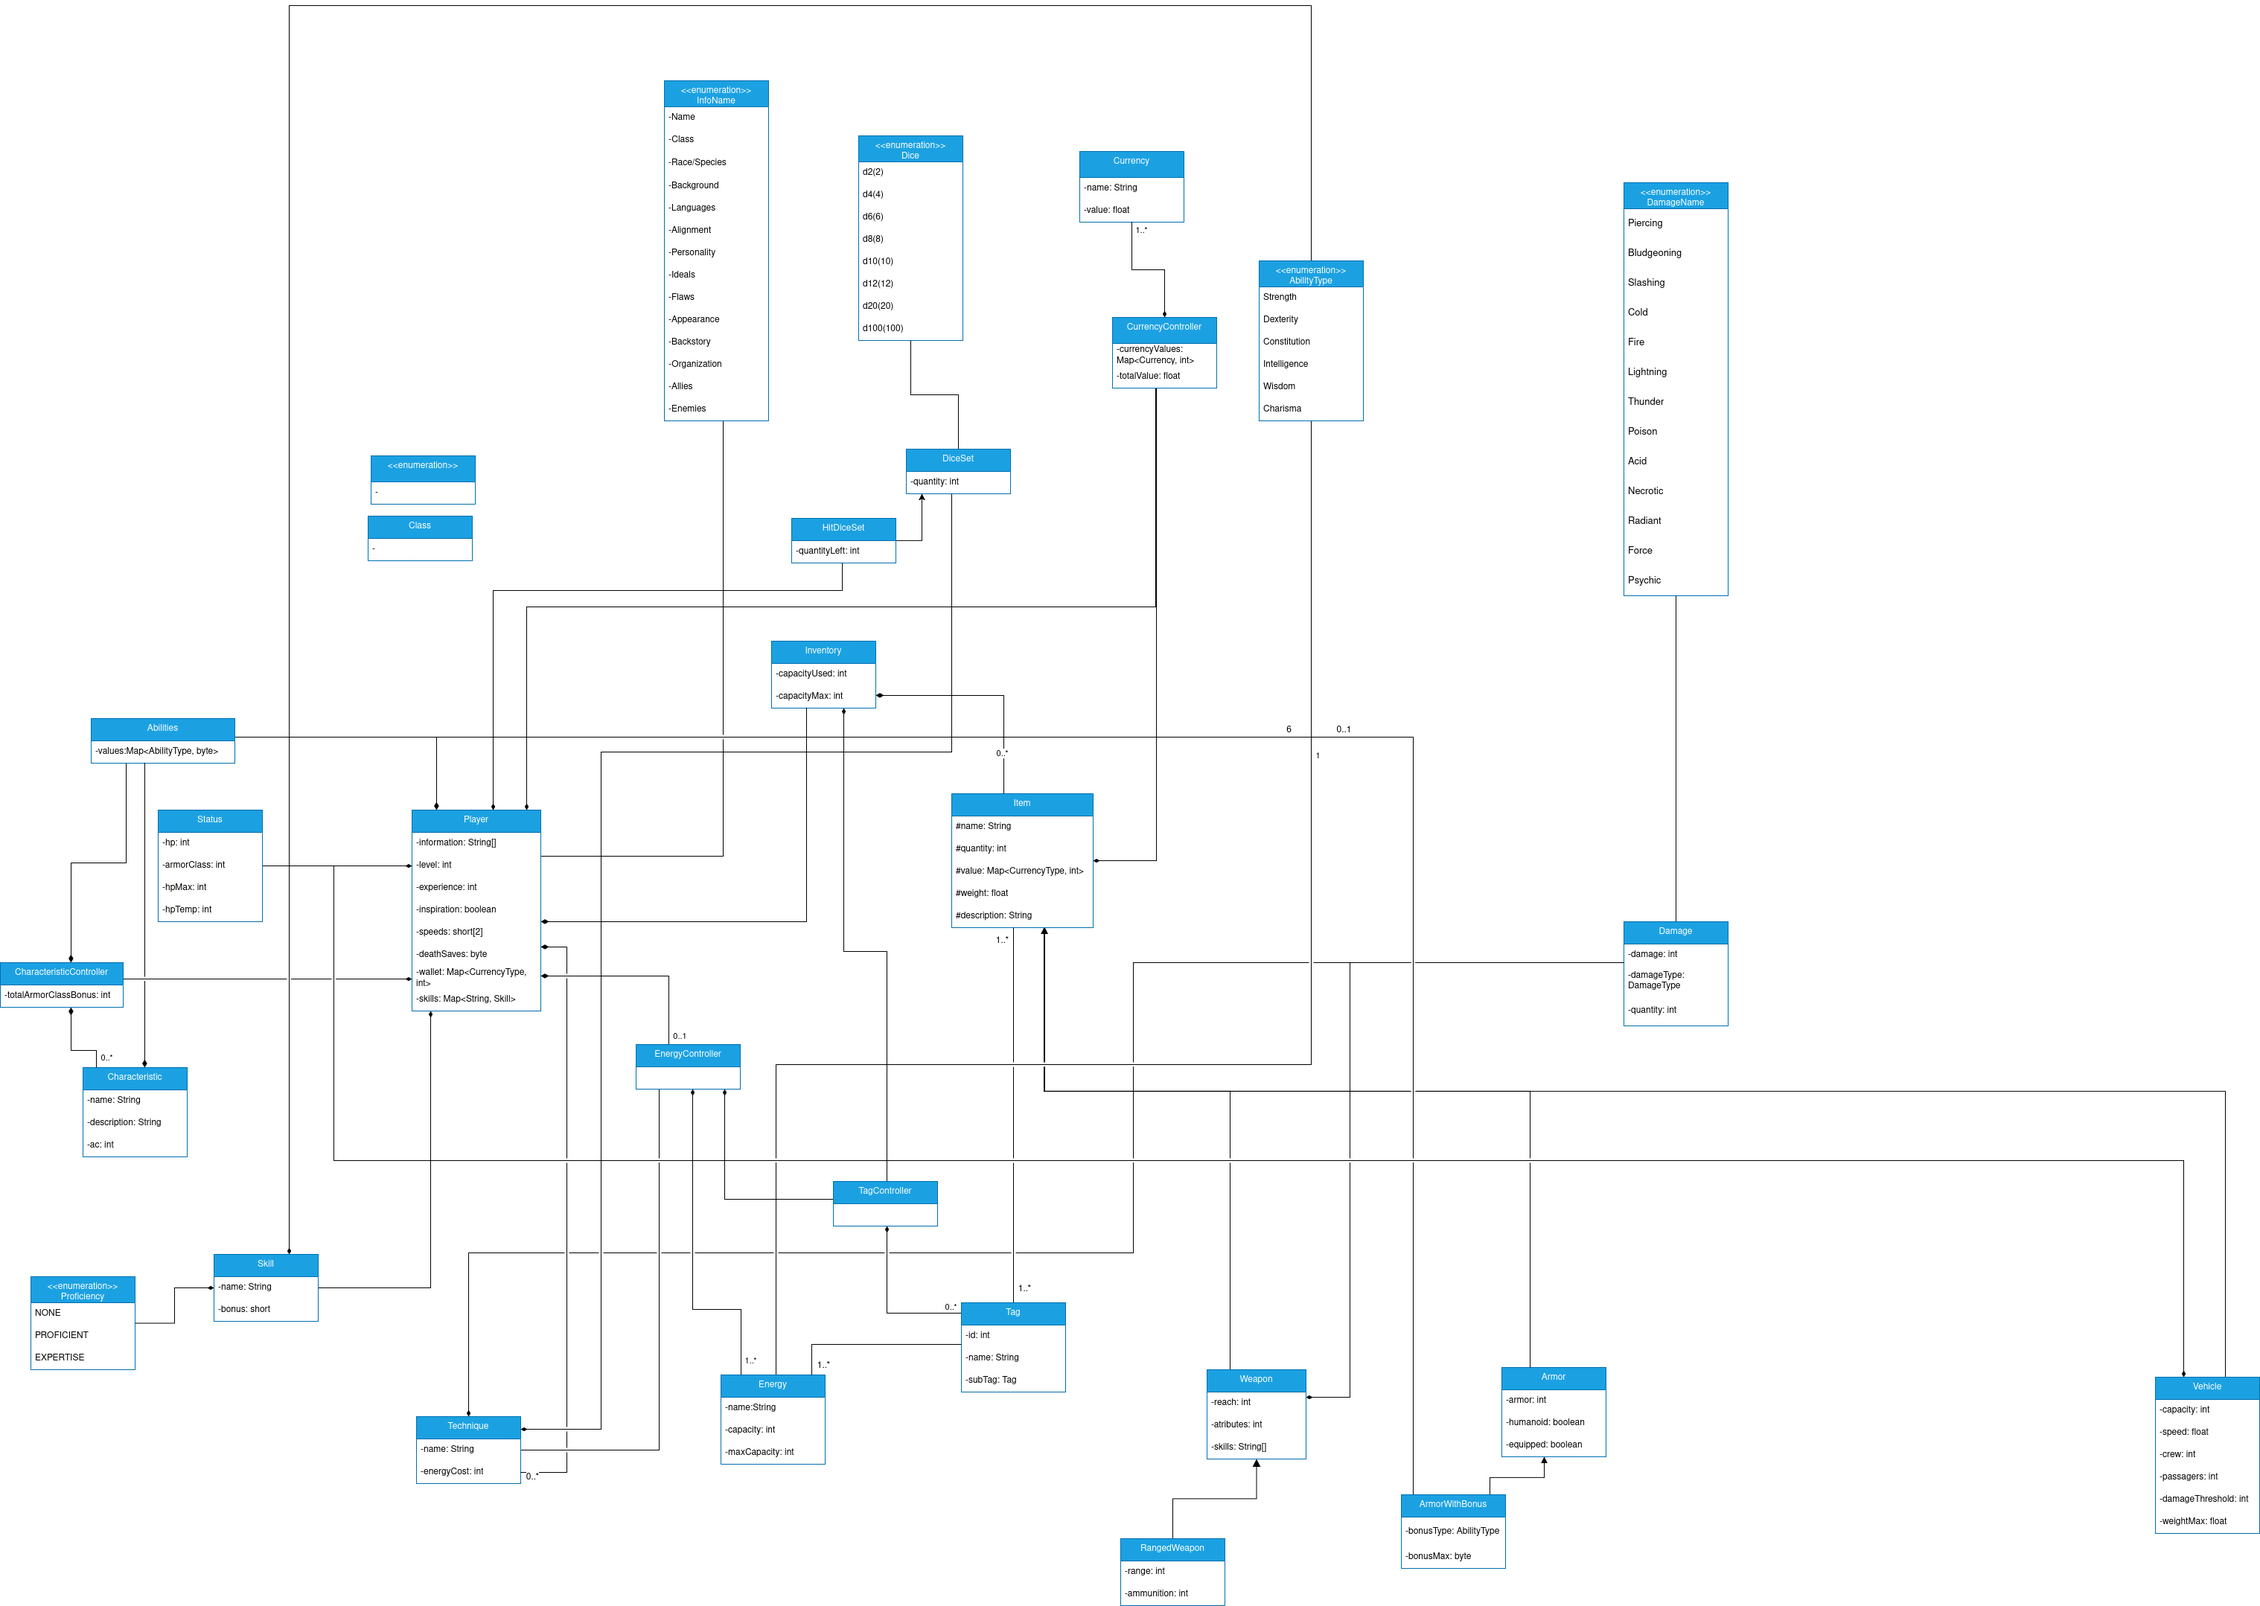
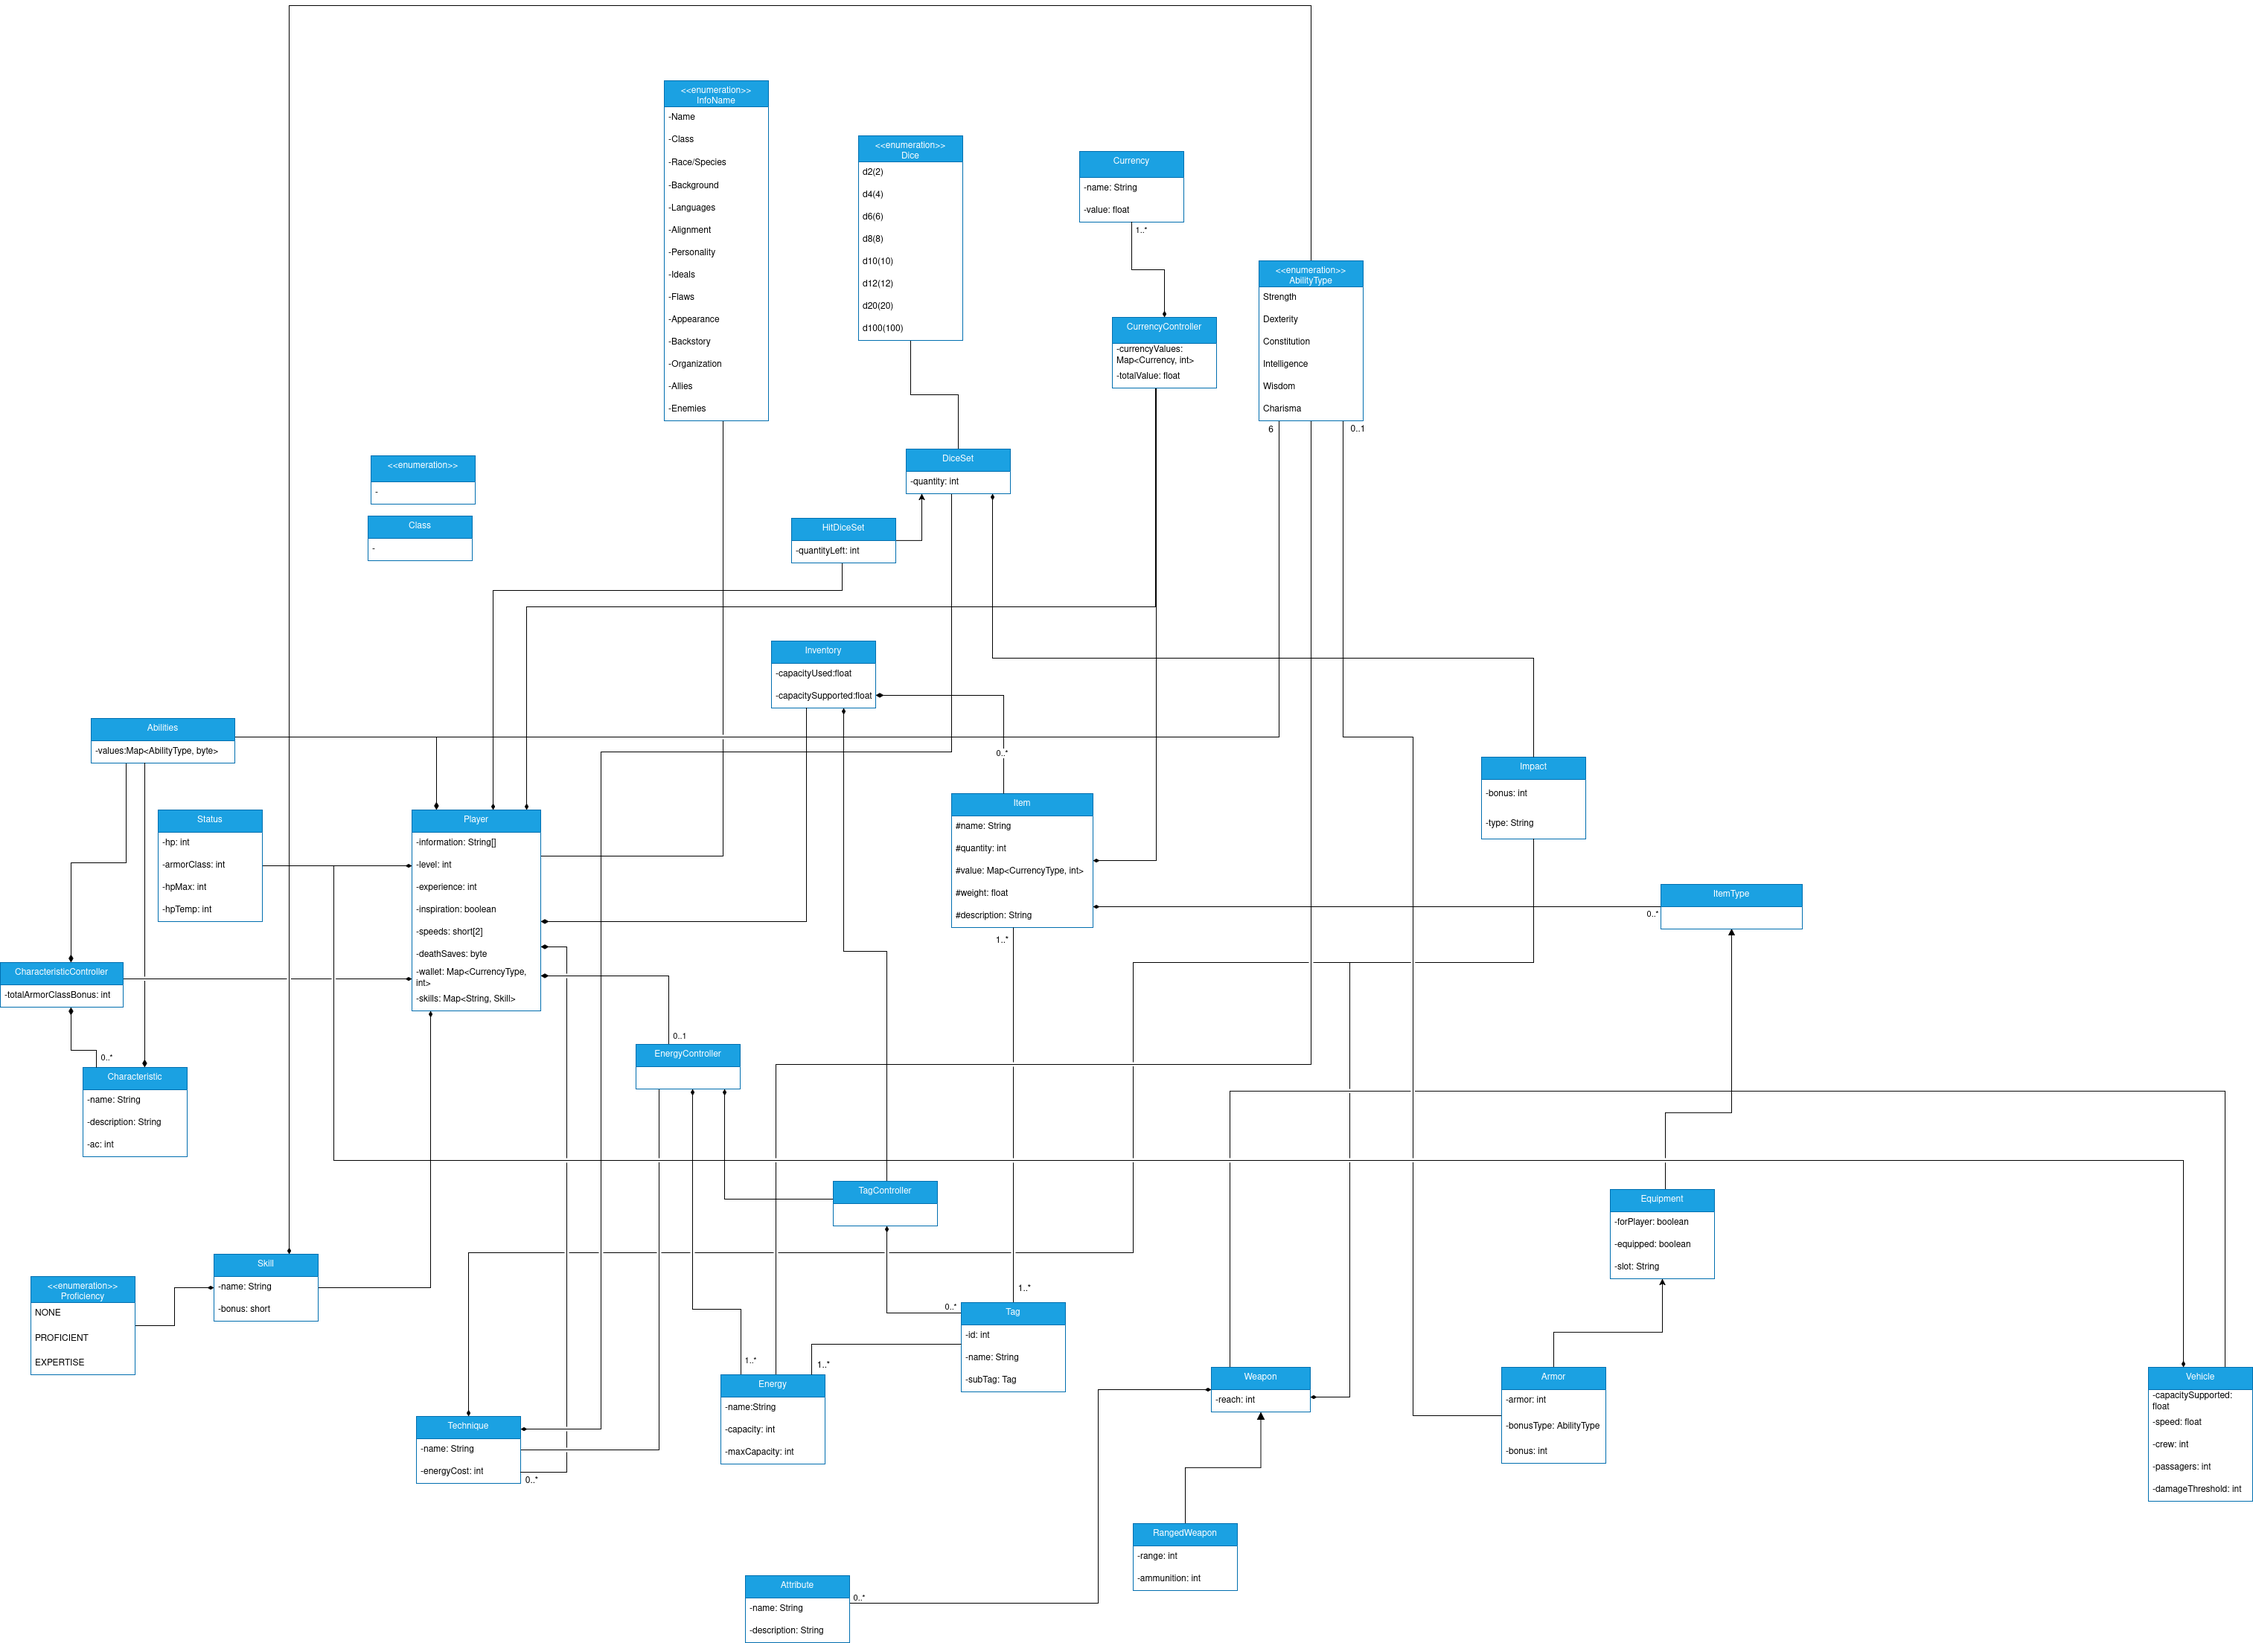
Redid diagram, remove validator instantiation and made inventory tests

diff --git a/src/test/java/a4g/rpgs/entity/common/inventory/InventoryTest.java b/src/test/java/a4g/rpgs/entity/common/inventory/InventoryTest.java
@@ -51,10 +51,10 @@ public class InventoryTest {
     }
 
     @Test
-    void testIsCumbered() {
+    void testIsEncumbered() {
         Inventory.Item heavyItem = new Inventory.Item("Boulder", 120, 1);
         inventory.addItem(heavyItem);
-        Assertions.assertTrue(inventory.isCumbered());
+        Assertions.assertTrue(inventory.isEncumbered());
     }
 
     @Test

diff --git a/src/main/java/a4g/rpgs/constraints/Validate.java b/src/main/java/a4g/rpgs/constraints/Validate.java
@@ -4,6 +4,9 @@ import java.util.List;
 import java.util.Set;
 
 public final class Validate {
+
+    private Validate() {}
+
     /* Object validation */
     public static <T> T isNotNull(T object, String argumentName) throws IllegalArgumentException {
         if (object == null)
